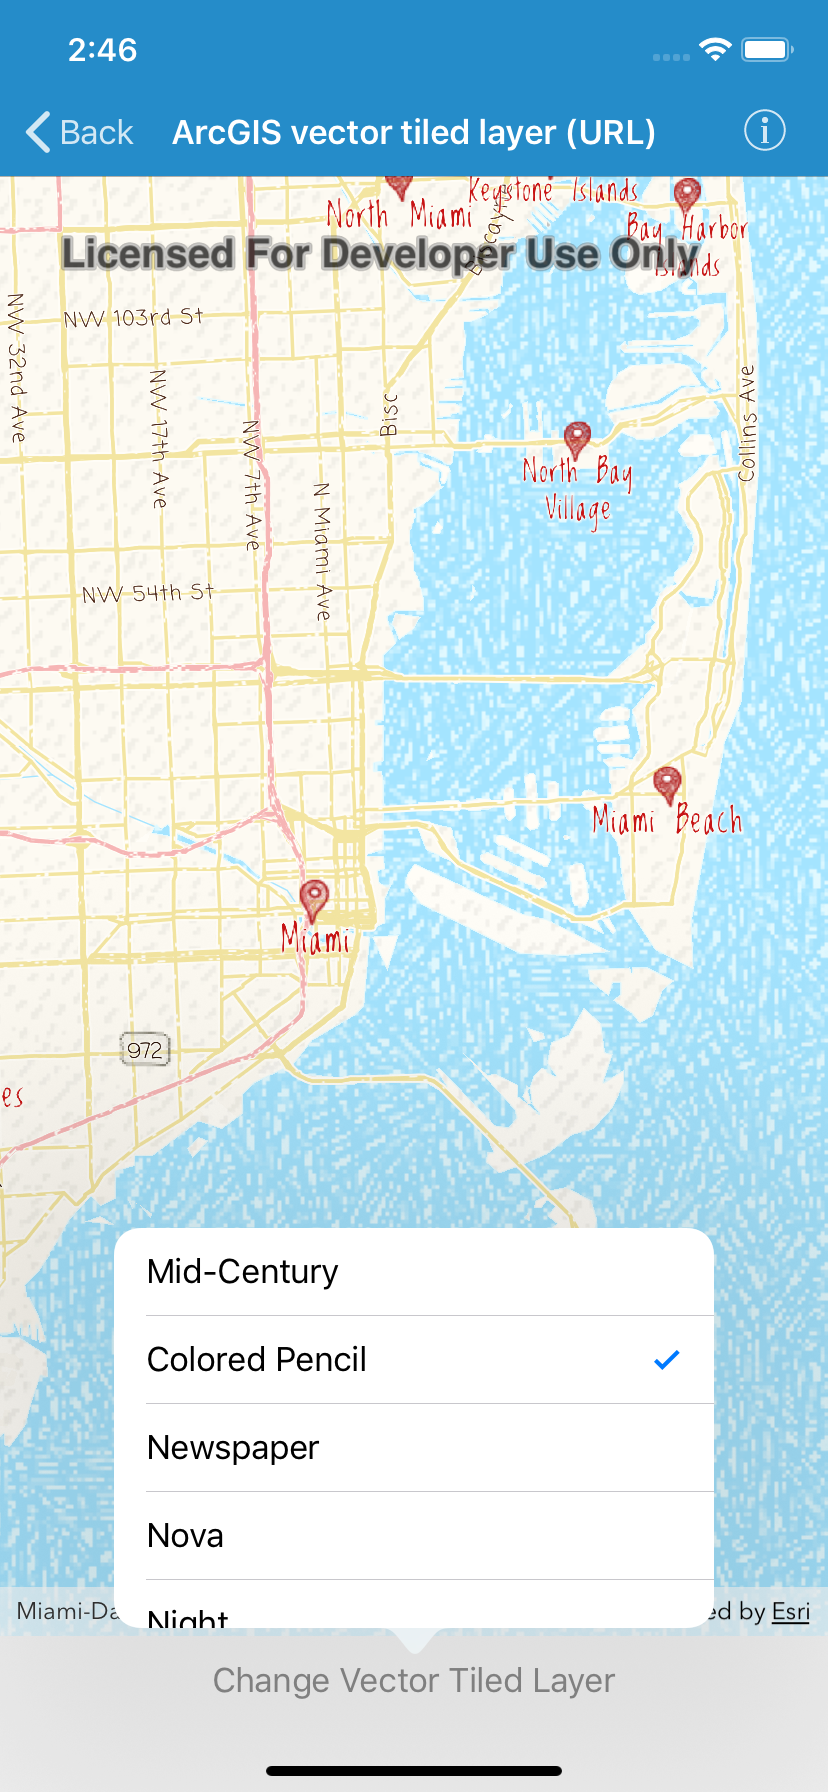
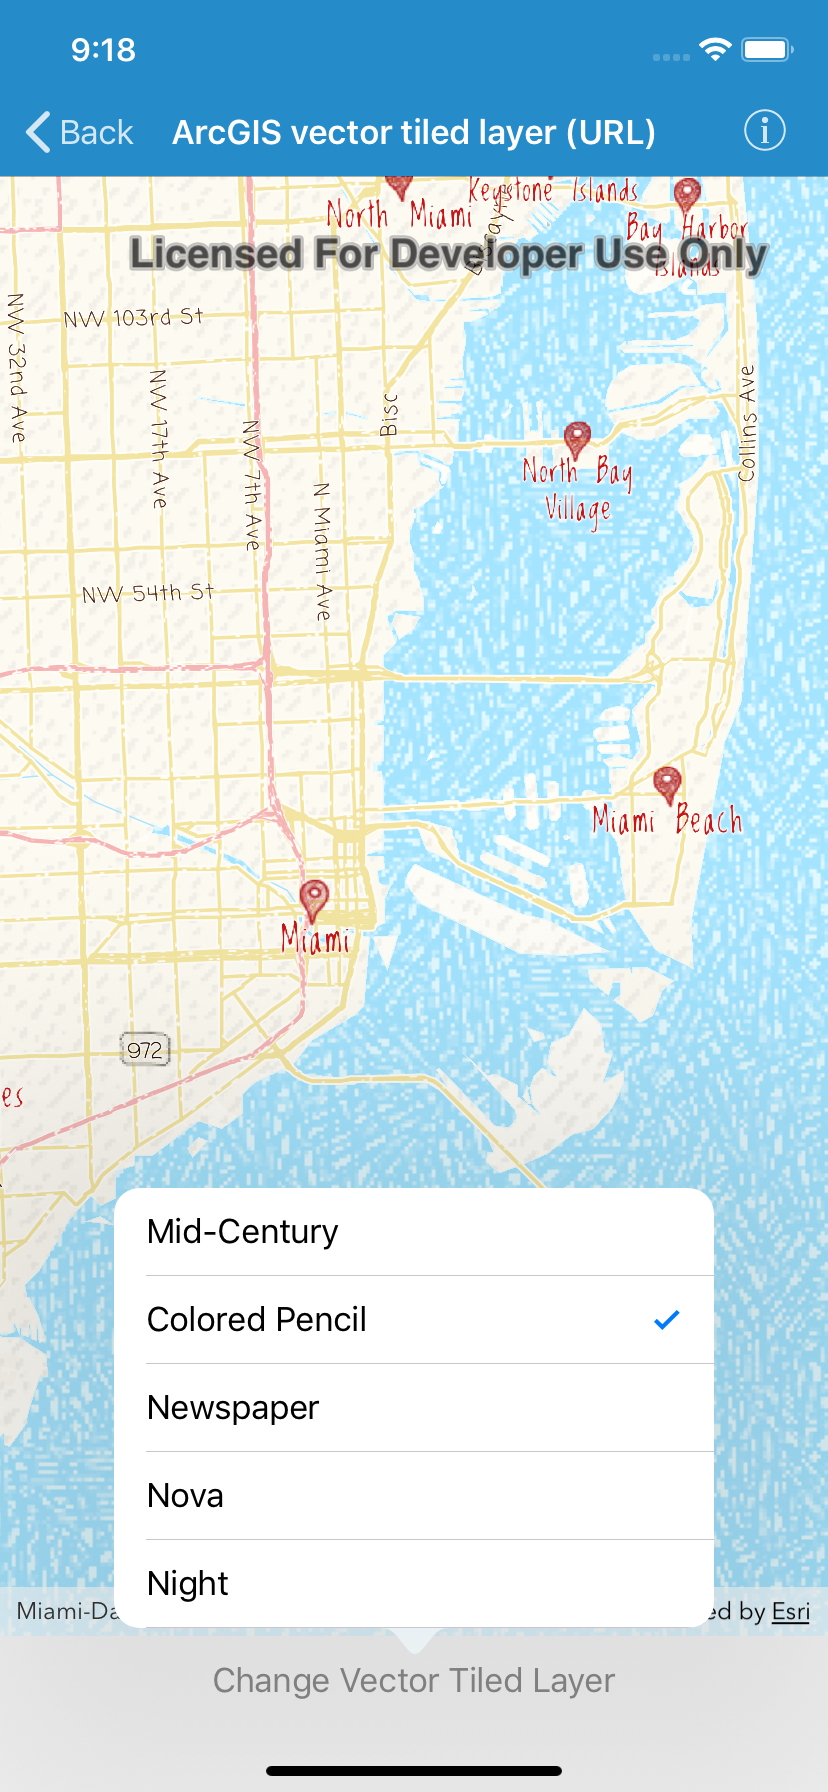
In the ArcGIS Vector Tiled Layer (URL) sample: - Changes id to itemID - Changes arcGISURL to makeArcGISURL - Uses URLComponents rather than string concatenation - Makes the height of the popover match its contents

diff --git a/arcgis-ios-sdk-samples/Layers/ArcGIS vector tiled layer (URL)/VectorTileLayerViewController.swift b/arcgis-ios-sdk-samples/Layers/ArcGIS vector tiled layer (URL)/VectorTileLayerViewController.swift
@@ -22,7 +22,7 @@ class VectorTileLayerViewController: UIViewController {
     @IBOutlet var mapView: AGSMapView!
     
     /// The model array containing the layer options.
-    private let vectorTiledLayerItems: [(label: String, id: String)] = [
+    private let vectorTiledLayerItems: [(label: String, itemID: String)] = [
         ("Mid-Century", "7675d44bb1e4428aa2c30a9b68f97822"),
         ("Colored Pencil", "4cf7e1fb9f254dcda9c8fbadb15cf0f8"),
         ("Newspaper", "dfb04de5f3144a80bc3f9f336228d24a"),
@@ -40,7 +40,7 @@ class VectorTileLayerViewController: UIViewController {
         ]
         
         /// The URL of the initial layer to display.
-        let url = arcGISURL(for: vectorTiledLayerItems.first!.id)
+        let url = makeArcGISURL(itemID: vectorTiledLayerItems.first!.itemID)
         
         // create a vector tiled layer
         let vectorTileLayer = AGSArcGISVectorTiledLayer(url: url)
@@ -55,8 +55,10 @@ class VectorTileLayerViewController: UIViewController {
 
     }
     
-    private func arcGISURL(for id: String) -> URL {
-        return URL(string: "https://www.arcgis.com/home/item.html?id=\(id)")!
+    private func makeArcGISURL(itemID: String) -> URL {
+        var urlComponents = URLComponents(string: "https://www.arcgis.com/home/item.html")!
+        urlComponents.queryItems = [URLQueryItem(name: "id", value: itemID)]
+        return urlComponents.url!
     }
 
     @IBAction func changeVectorTiledLayer(_ sender: UIBarButtonItem) {
@@ -64,7 +66,7 @@ class VectorTileLayerViewController: UIViewController {
         guard let layer = mapView.map?.basemap.baseLayers.firstObject as? AGSArcGISVectorTiledLayer,
             let selectedItemID = layer.item?.itemID,
             // get the index of the layer currently shown in the map
-            let selectedIndex = vectorTiledLayerItems.firstIndex(where: { $0.id == selectedItemID }) else {
+            let selectedIndex = vectorTiledLayerItems.firstIndex(where: { $0.itemID == selectedItemID }) else {
             return
         }
         
@@ -79,9 +81,9 @@ class VectorTileLayerViewController: UIViewController {
             }
             
             // get the layer ID for the index
-            let id = self.vectorTiledLayerItems[newIndex].id
+            let itemID = self.vectorTiledLayerItems[newIndex].itemID
             // get the url for the layer ID
-            let url = self.arcGISURL(for: id)
+            let url = self.makeArcGISURL(itemID: itemID)
             // create the new vector tiled layer using the url
             let vectorTileLayer = AGSArcGISVectorTiledLayer(url: url)
             // change the basemap to the new layer
@@ -91,7 +93,7 @@ class VectorTileLayerViewController: UIViewController {
         // configure the options controller as a popover
         controller.modalPresentationStyle = .popover
         controller.presentationController?.delegate = self
-        controller.preferredContentSize = CGSize(width: 300, height: 200)
+        controller.preferredContentSize = CGSize(width: 300, height: 220)
         controller.popoverPresentationController?.barButtonItem = sender
         controller.popoverPresentationController?.passthroughViews?.append(mapView)
         
